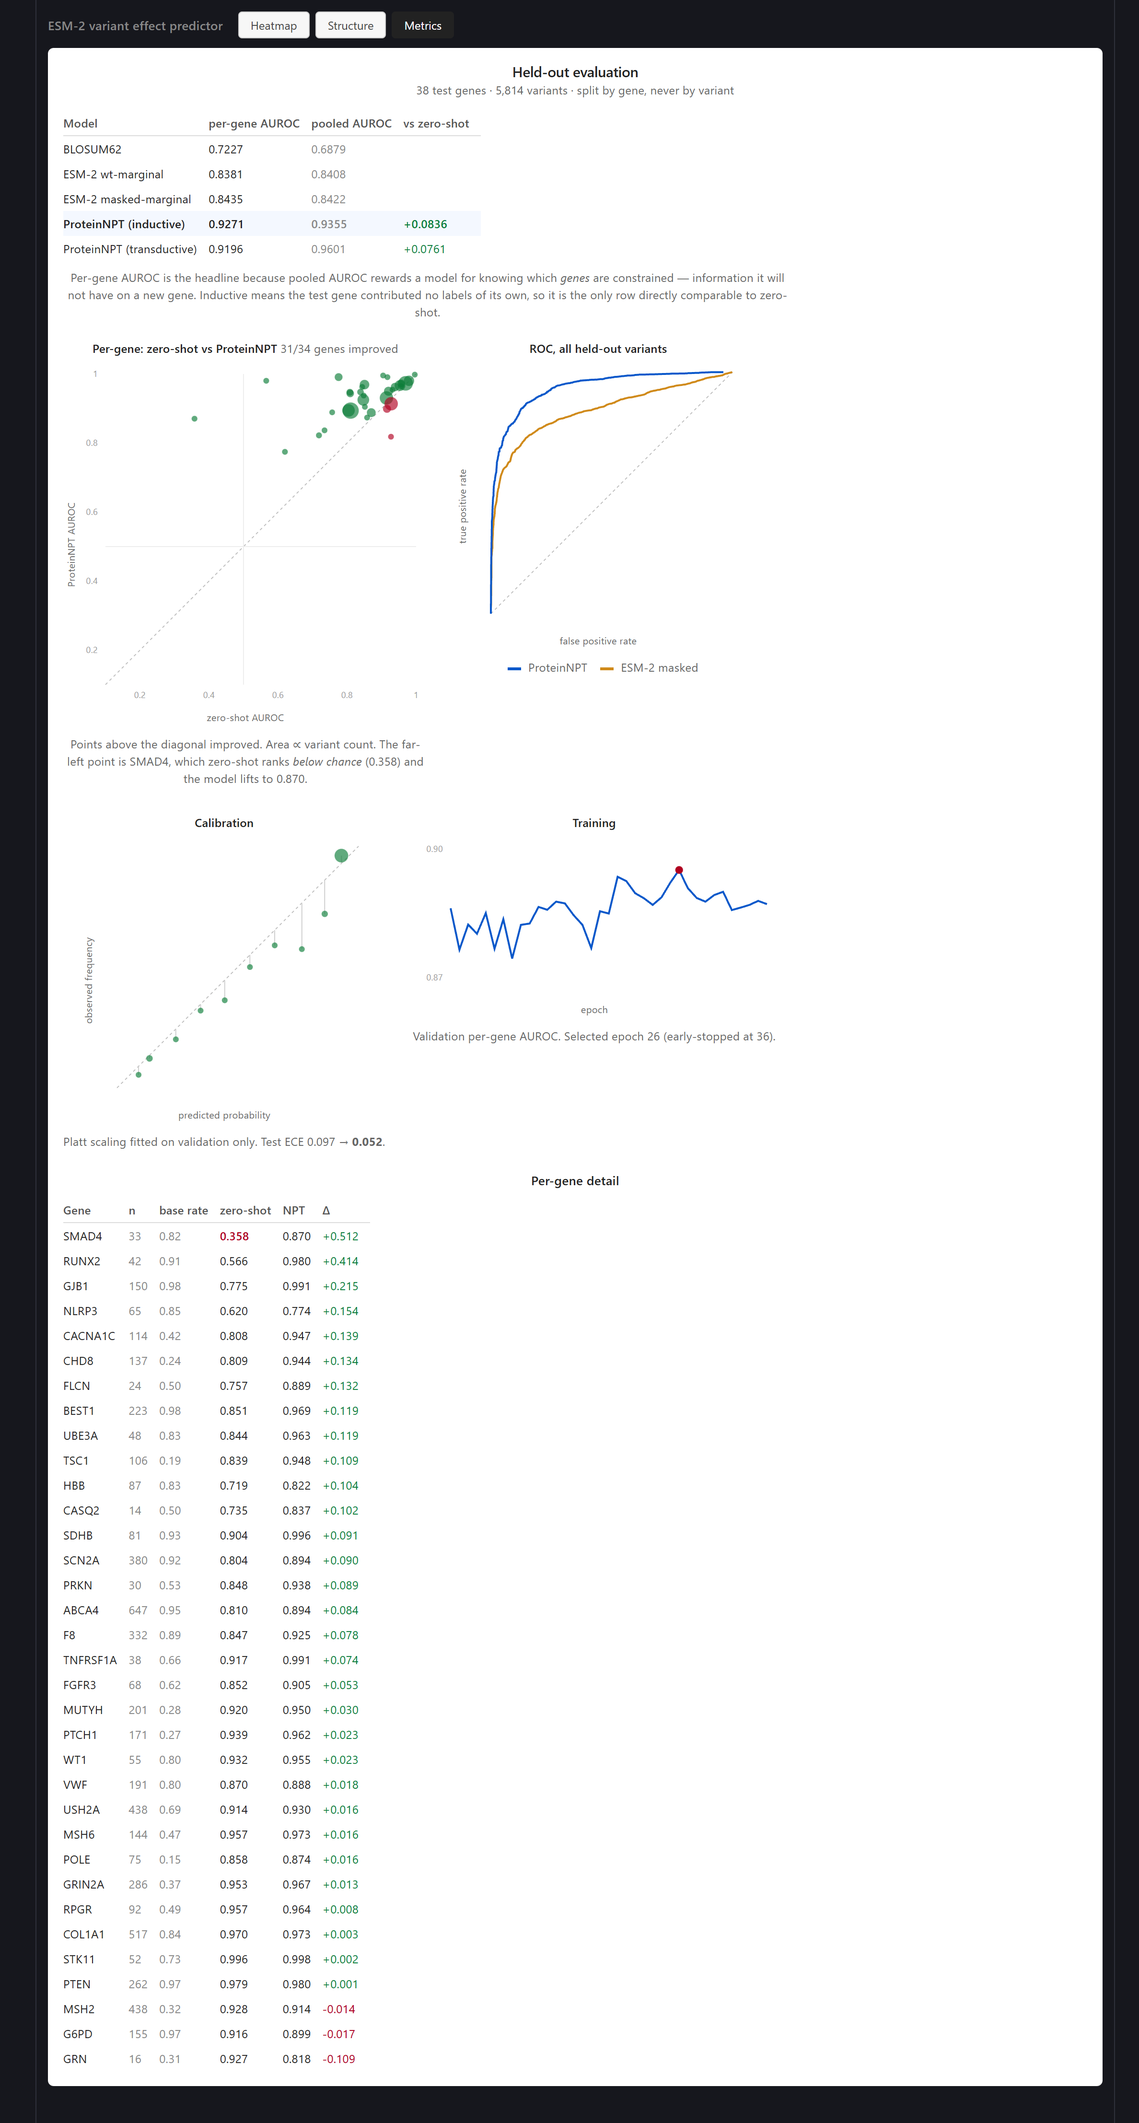
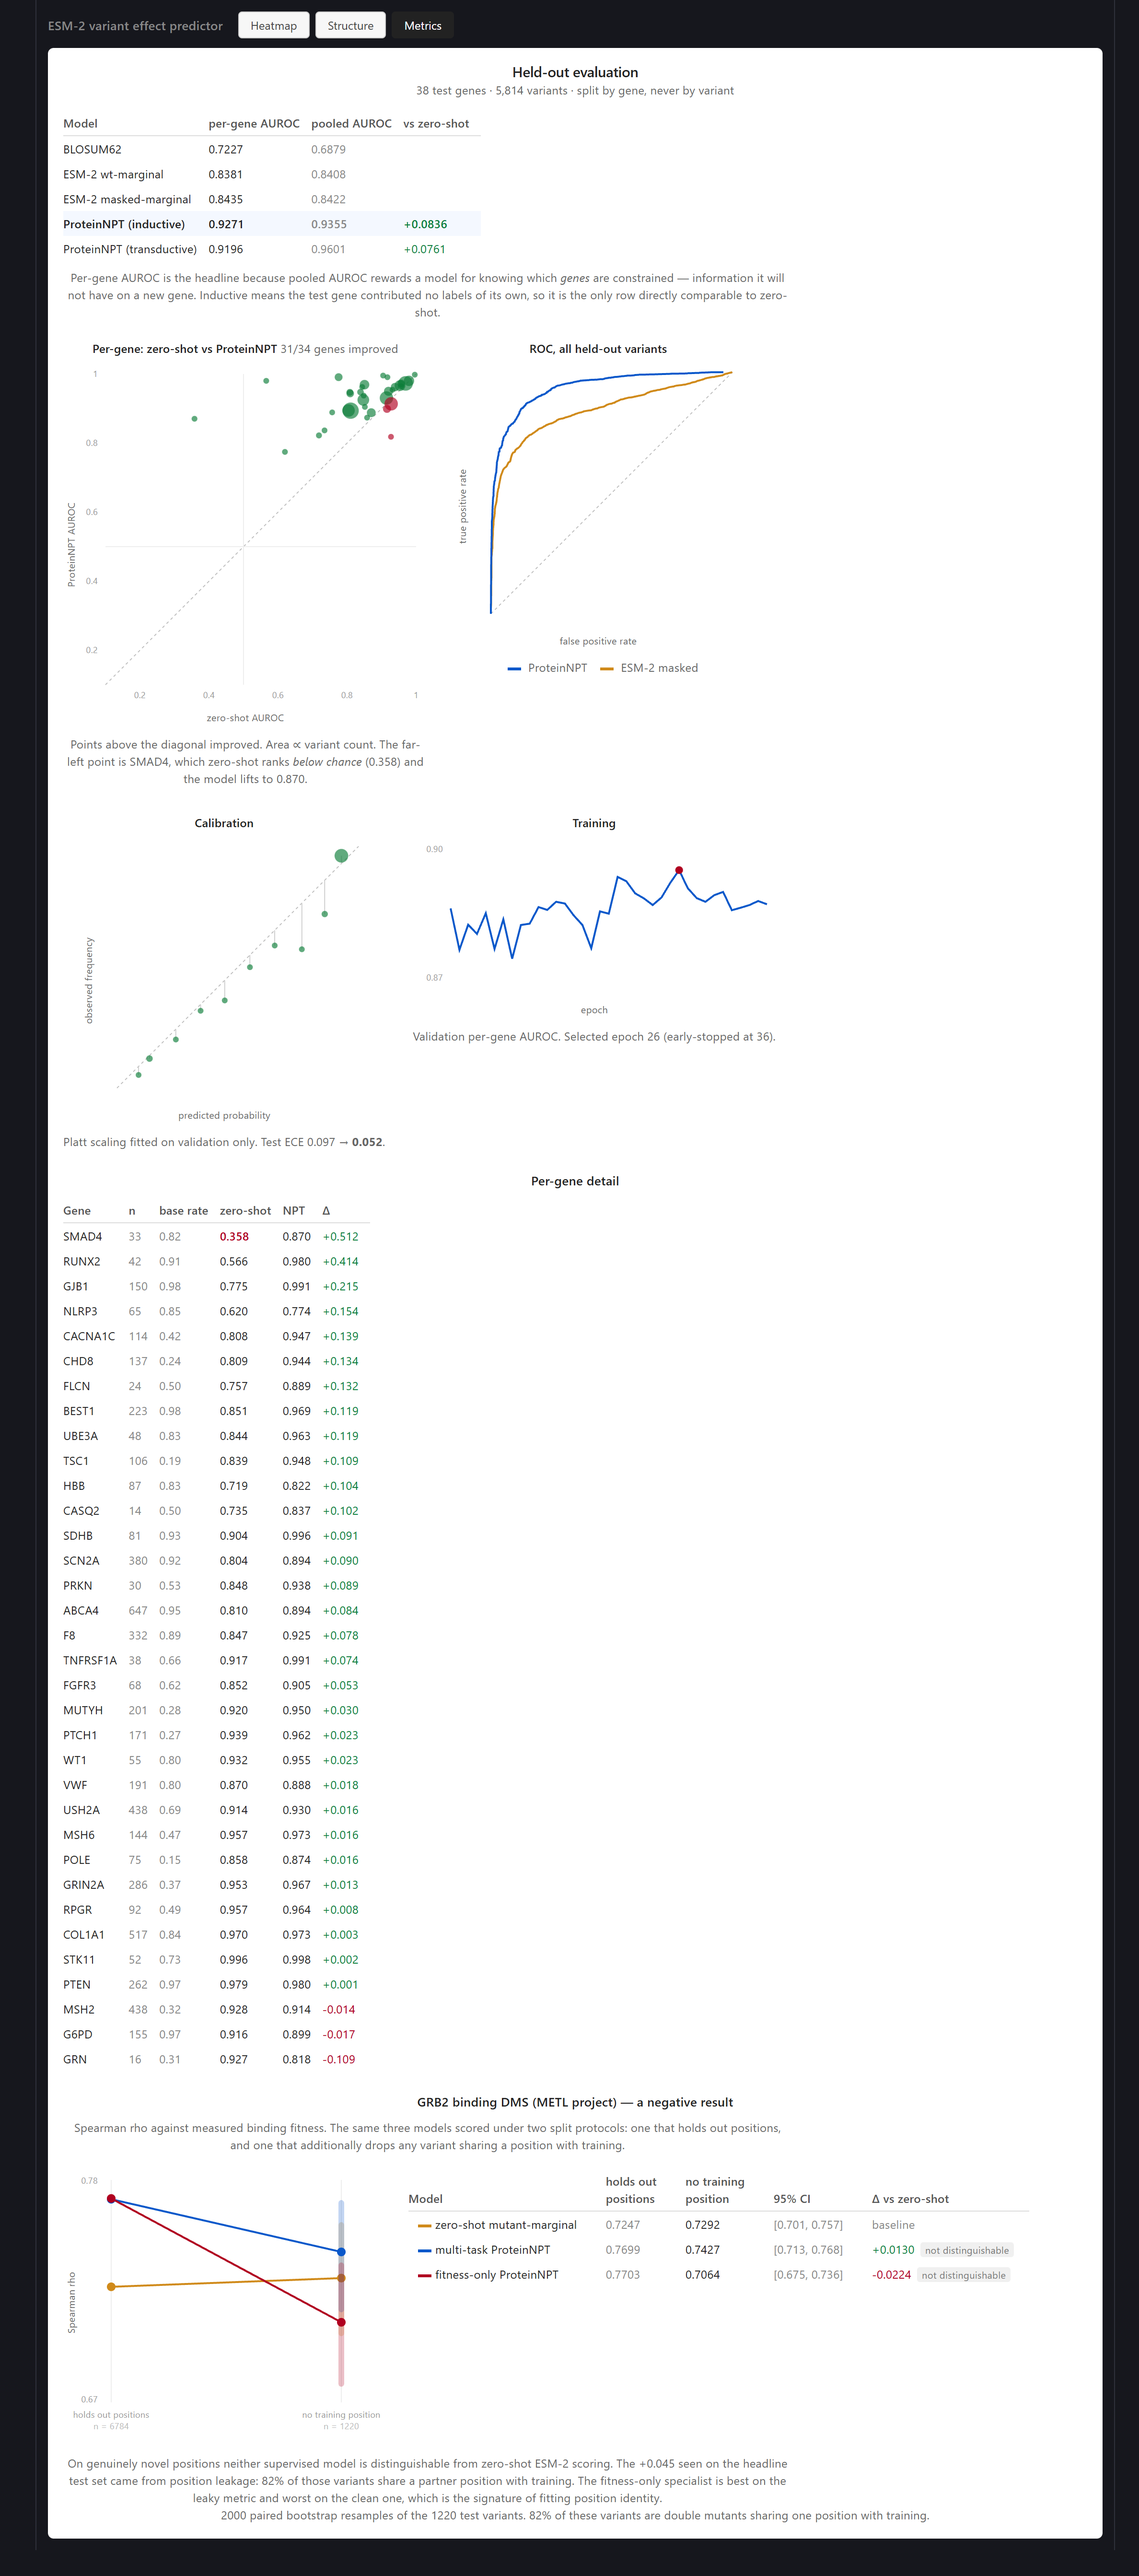
Show the GRB2 negative result in the dashboard
The most interesting finding in the project existed only as prose in the
guide. It is now a slopegraph of the same three models under both split
protocols, because neither number alone is the point - the point is that the
ranking inverts between them. The fitness-only specialist is best on the leaky
split and worst on the clean one, which is what fitting position identity
looks like.

Paired bootstrap CIs are drawn on the strict side, where they overlap; the
table marks both supervised models as not distinguishable from zero-shot.

Also routes report.py and pipeline.py through load_state_dict_compat. Both
load checkpoints from disk and both hit the same failure the predictor did -
regenerating metrics.json was impossible until this was fixed. The trainers
keep a strict load, since they restore in-memory state from the same process
where the architecture matches by construction.

diff --git a/front end/web/src/components/Metrics.vue b/front end/web/src/components/Metrics.vue
@@ -81,6 +81,33 @@ const trainingPath = computed(() => {
   }
 })
 
+// --- GRB2 fitness: the same three models under two split protocols ----------
+// A slopegraph, because the finding is not either number on its own - it is
+// that the ranking inverts between them. The specialist is top-left and
+// bottom-right; nothing else in the dashboard shows that.
+const F = { w: 340, h: 300, pad: 46, top: 22 }
+const fitness = computed(() => data.value?.fitness ?? null)
+const F_CLASS: Record<string, string> = {
+  zero_shot: 'f-zs',
+  multi_task: 'f-mt',
+  fitness_only: 'f-fo',
+}
+const fRange = computed(() => {
+  const m = fitness.value?.models
+  if (!m) return { lo: 0.68, hi: 0.79 }
+  const vals = m.flatMap((r: any) => [r.leaky, r.strict, ...r.ci95])
+  const lo = Math.min(...vals)
+  const hi = Math.max(...vals)
+  const pad = (hi - lo) * 0.1 || 0.01
+  return { lo: lo - pad, hi: hi + pad }
+})
+function fy(v: number): number {
+  const { lo, hi } = fRange.value
+  return F.h - F.pad - ((v - lo) / (hi - lo)) * (F.h - F.pad - F.top)
+}
+const fxL = F.pad + 4
+const fxR = F.w - F.pad - 4
+
 // --- calibration ------------------------------------------------------------
 const C = { w: 300, h: 300, pad: 38 }
 const cx = (v: number) => C.pad + v * (C.w - C.pad - 10)
@@ -246,6 +273,80 @@ const cy = (v: number) => C.h - C.pad - v * (C.h - C.pad - 10)
         </tbody>
       </table>
 
+      <!-- GRB2 fitness -->
+      <template v-if="fitness">
+        <h3>{{ fitness.assay }} &mdash; a negative result</h3>
+        <p class="note">
+          {{ fitness.metric }}. The same three models scored under two split
+          protocols: one that holds out positions, and one that additionally
+          drops any variant sharing a position with training.
+        </p>
+
+        <div class="fit">
+          <svg :width="F.w" :height="F.h">
+            <line :x1="fxL" :y1="F.top" :x2="fxL" :y2="F.h - F.pad" class="chance" />
+            <line :x1="fxR" :y1="F.top" :x2="fxR" :y2="F.h - F.pad" class="chance" />
+            <g v-for="m in fitness.models" :key="m.key">
+              <line :x1="fxL" :y1="fy(m.leaky)" :x2="fxR" :y2="fy(m.strict)"
+                    class="slope" :class="F_CLASS[m.key]" />
+              <circle :cx="fxL" :cy="fy(m.leaky)" r="4" class="dot" :class="F_CLASS[m.key]" />
+              <line :x1="fxR" :y1="fy(m.ci95[0])" :x2="fxR" :y2="fy(m.ci95[1])"
+                    class="ci" :class="F_CLASS[m.key]" />
+              <circle :cx="fxR" :cy="fy(m.strict)" r="4" class="dot" :class="F_CLASS[m.key]" />
+            </g>
+            <text :x="fxL" :y="F.h - F.pad + 16" class="tick">
+              holds out positions
+            </text>
+            <text :x="fxL" :y="F.h - F.pad + 28" class="tick dimtick">
+              n = {{ fitness.splits.leaky.n }}
+            </text>
+            <text :x="fxR" :y="F.h - F.pad + 16" class="tick">no training position</text>
+            <text :x="fxR" :y="F.h - F.pad + 28" class="tick dimtick">
+              n = {{ fitness.splits.strict.n }}
+            </text>
+            <text :x="F.pad - 10" :y="F.top + 4" class="tick end">
+              {{ fRange.hi.toFixed(2) }}
+            </text>
+            <text :x="F.pad - 10" :y="F.h - F.pad" class="tick end">
+              {{ fRange.lo.toFixed(2) }}
+            </text>
+            <text :x="-F.h / 2" :y="12" class="axis" transform="rotate(-90)">Spearman rho</text>
+          </svg>
+
+          <table class="fitrows">
+            <thead>
+              <tr>
+                <th>Model</th>
+                <th class="num">holds out<br />positions</th>
+                <th class="num">no training<br />position</th>
+                <th class="num">95% CI</th>
+                <th class="num">&Delta; vs zero-shot</th>
+              </tr>
+            </thead>
+            <tbody>
+              <tr v-for="m in fitness.models" :key="m.key">
+                <td><span class="key" :class="F_CLASS[m.key]"></span>{{ m.label }}</td>
+                <td class="num dim">{{ m.leaky.toFixed(4) }}</td>
+                <td class="num">{{ m.strict.toFixed(4) }}</td>
+                <td class="num dim">[{{ m.ci95[0].toFixed(3) }}, {{ m.ci95[1].toFixed(3) }}]</td>
+                <td class="num">
+                  <template v-if="m.delta !== undefined">
+                    <span :class="m.delta > 0 ? 'up' : 'down'">
+                      {{ m.delta > 0 ? '+' : '' }}{{ m.delta.toFixed(4) }}
+                    </span>
+                    <span v-if="!m.distinguishable" class="tag">not distinguishable</span>
+                  </template>
+                  <span v-else class="dim">baseline</span>
+                </td>
+              </tr>
+            </tbody>
+          </table>
+        </div>
+
+        <p class="note">{{ fitness.conclusion }}</p>
+        <p class="cap">{{ fitness.method }}. {{ fitness.splits.leaky.note }}.</p>
+      </template>
+
       <div v-if="hover" class="tooltip" :style="{ left: `${hover.x + 14}px`, top: `${hover.y + 14}px` }">
         <strong>{{ hover.gene }}</strong>
         <span>zero-shot {{ hover.zs.toFixed(3) }} &rarr; NPT {{ hover.npt.toFixed(3) }}</span>
@@ -306,6 +407,27 @@ figure .cap { max-width: 380px; margin: 4px 0 0; }
 .tick { font-size: 9px; fill: #999; text-anchor: middle; }
 .tick.end { text-anchor: end; }
 .axis { font-size: 10px; fill: #666; text-anchor: middle; }
+.fit { display: flex; gap: 20px; align-items: flex-start; flex-wrap: wrap; margin-top: 6px; }
+.fitrows { margin-top: 10px; }
+/* The two split columns sit next to each other and their headers wrap onto two
+   lines, so without real horizontal separation "holds out" and "no training"
+   read as one phrase. */
+.fitrows th, .fitrows td { padding: 4px 16px 4px 0; text-align: left; vertical-align: bottom; }
+.fitrows th.num, .fitrows td.num { padding-left: 14px; }
+.slope { stroke-width: 2; fill: none; }
+.ci { stroke-width: 6; opacity: 0.25; stroke-linecap: round; }
+.dimtick { fill: #bbb; }
+.tag {
+  margin-left: 6px;
+  padding: 1px 5px;
+  border-radius: 3px;
+  background: #f0f0f0;
+  color: #777;
+  font-size: 10px;
+}
+.f-zs { stroke: #d08a1a; fill: #d08a1a; background: #d08a1a; }
+.f-mt { stroke: #0a58ca; fill: #0a58ca; background: #0a58ca; }
+.f-fo { stroke: #b00020; fill: #b00020; background: #b00020; }
 .key { display: inline-block; width: 14px; height: 3px; margin: 0 4px 0 10px; vertical-align: middle; }
 .key.npt { background: #0a58ca; }
 .key.zs { background: #d08a1a; }

diff --git a/vep/eval/report.py b/vep/eval/report.py
@@ -20,7 +20,7 @@ import torch
 from sklearn.metrics import roc_auc_score, roc_curve
 
 from vep.config import Config, resolve_device
-from vep.models.npt import LABEL_MASK, ProteinNPT
+from vep.models.npt import LABEL_MASK, ProteinNPT, load_state_dict_compat
 from vep.train.datasets import build_features, label_tokens, split_indices, to_tensors
 
 
@@ -54,6 +54,69 @@ def _predict(model, feats, query, pool, device, same_gene: bool, n_context: int 
     return out
 
 
+def _fitness_block() -> dict | None:
+    """The GRB2 result, paired across the leaky and the clean split.
+
+    Both splits are reported deliberately. The leaky one is what a normal
+    held-out-positions protocol produces and it says supervised training wins;
+    the clean one says it does not. Showing only the honest number would hide
+    the more useful fact, which is how far apart the two protocols land on the
+    same models.
+    """
+    try:
+        boot = json.loads(Path("artifacts/fitness_bootstrap.json").read_text())
+        multi = json.loads(Path("artifacts/multitask_results.json").read_text())
+        only = json.loads(Path("artifacts/fitness_results.json").read_text())
+    except FileNotFoundError:
+        return None
+
+    sp = boot["spearman"]
+    delta = boot["paired_delta_vs_zero_shot"]
+    leaky = {
+        "zero_shot": round(float(multi["grb2_fitness"]["zero_shot_spearman"]), 4),
+        "multi_task": round(float(multi["grb2_fitness"]["test_spearman"]), 4),
+        "fitness_only": round(float(only["all_test"]["spearman"]), 4),
+    }
+
+    models = []
+    for key, label in [("zero_shot", "zero-shot mutant-marginal"),
+                       ("multi_task", "multi-task ProteinNPT"),
+                       ("fitness_only", "fitness-only ProteinNPT")]:
+        row = {
+            "key": key,
+            "label": label,
+            "leaky": leaky[key],
+            "strict": sp[key]["rho"],
+            "ci95": sp[key]["ci95"],
+        }
+        if key in delta:
+            row["delta"] = delta[key]["delta"]
+            row["delta_ci95"] = delta[key]["ci95"]
+            row["distinguishable"] = delta[key]["distinguishable"]
+        models.append(row)
+
+    return {
+        "assay": "GRB2 binding DMS (METL project)",
+        "metric": "Spearman rho against measured binding fitness",
+        "splits": {
+            "leaky": {
+                "n": int(multi["grb2_fitness"]["n_test"]),
+                "label": "held-out positions",
+                "note": "82% of these variants are double mutants sharing one "
+                        "position with training",
+            },
+            "strict": {
+                "n": int(boot["test_set"]["n"]),
+                "label": "no training position",
+                "note": boot["test_set"]["definition"],
+            },
+        },
+        "models": models,
+        "conclusion": boot["conclusion"],
+        "method": boot["method"],
+    }
+
+
 def build_report(cfg: Config, out_path: Path) -> dict:
     device = resolve_device(cfg.backbone.device)
     feats = build_features(cfg)
@@ -68,7 +131,7 @@ def build_report(cfg: Config, out_path: Path) -> dict:
         n_heads=cfg.npt.n_heads,
         dropout=cfg.npt.dropout,
     ).to(device)
-    model.load_state_dict(ckpt["state_dict"])
+    load_state_dict_compat(model, ckpt["state_dict"])
     model.eval()
 
     test = idx["test"]
@@ -166,6 +229,7 @@ def build_report(cfg: Config, out_path: Path) -> dict:
             "npt": [[round(float(a), 4), round(float(b), 4)] for a, b in zip(fpr[::step], tpr[::step])],
             "zeroshot": [[round(float(a), 4), round(float(b), 4)] for a, b in zip(fpr_z[::step_z], tpr_z[::step_z])],
         },
+        "fitness": _fitness_block(),
         "compute_minutes": zs_report["compute_minutes"],
         "spearman_wt_vs_masked": zs_report["spearman_wt_vs_masked"],
         "backbone": cfg.backbone.name,

diff --git a/vep/pipeline.py b/vep/pipeline.py
@@ -91,14 +91,14 @@ def run(cfg: Config, force: bool = False) -> int:
             f"(val per-gene AUROC {meta['best_val_per_gene_auroc']:.4f})")
     else:
         log(f"stage 3/5: checkpoint present ({ckpt_path.name}), loading")
-        from vep.models.npt import ProteinNPT
+        from vep.models.npt import ProteinNPT, load_state_dict_compat
 
         blob = torch.load(ckpt_path, map_location=device, weights_only=False)
         model = ProteinNPT(
             d_emb=feats.d_emb, d_model=cfg.npt.d_model,
             n_layers=cfg.npt.n_layers, n_heads=cfg.npt.n_heads, dropout=cfg.npt.dropout,
         ).to(device)
-        model.load_state_dict(blob["state_dict"])
+        load_state_dict_compat(model, blob["state_dict"])
         meta = blob.get("meta", {})
     model.eval()
 
